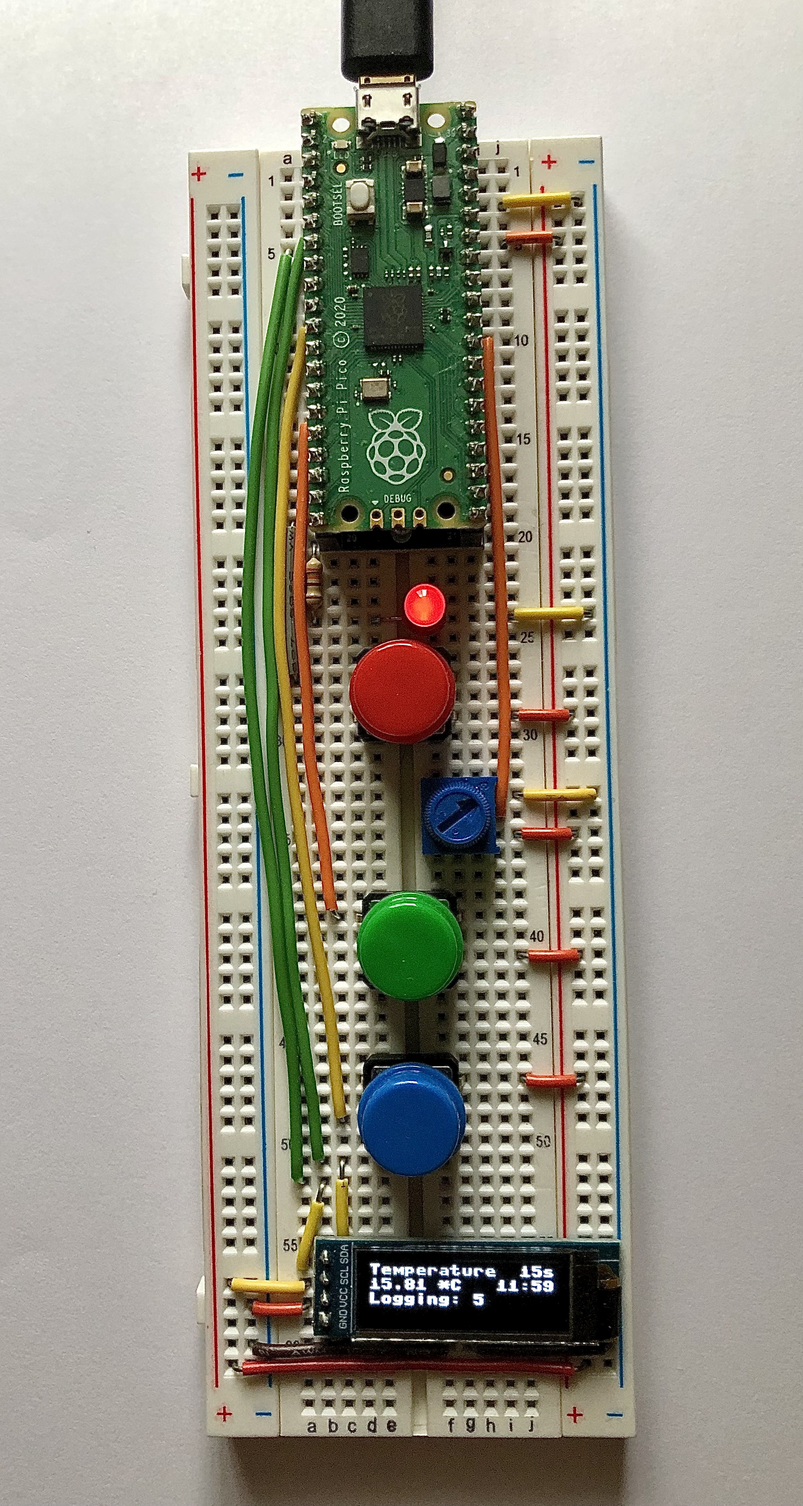
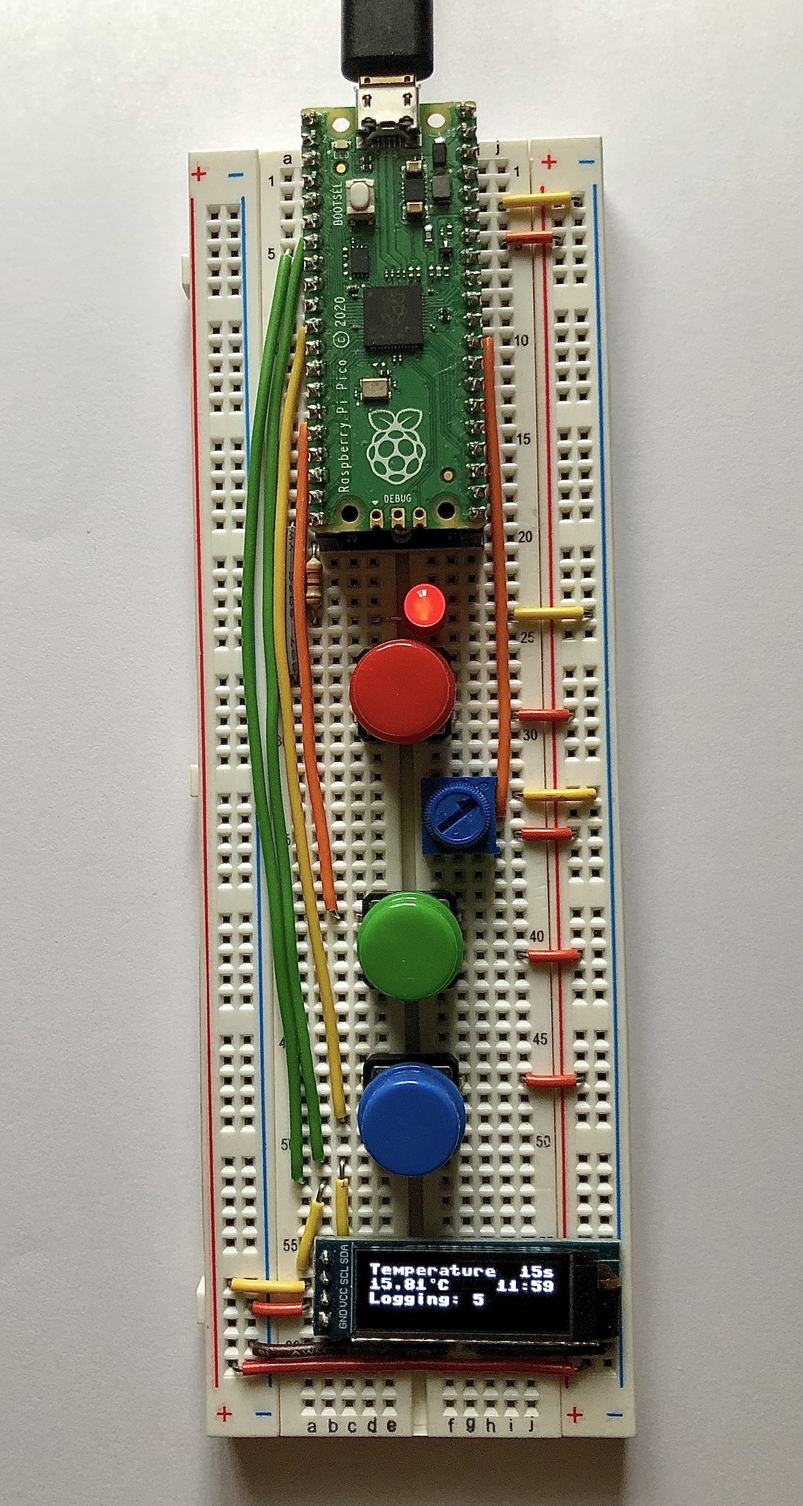
Project Updated
Replaced the asterisk symbol on the OLED with a degrees symbol.

6th August 2023

Changed region(s): [[0.4367, 0.593, 0.5614, 0.6554], [0.5302, 0.8427, 0.5926, 0.8739], [0.5302, 0.3745, 0.5614, 0.4057]]

diff --git a/TemperatureLogger.py b/TemperatureLogger.py
@@ -25,6 +25,7 @@ import time
 import utime
 import random
 import binascii
+import math
 from ssd1306 import SSD1306_I2C
 from machine import Pin, I2C, ADC
 
@@ -167,17 +168,27 @@ def centigradeToFahrenheit(centigrade):
     fahrenheit = centigrade * 9/5 + 32
     return fahrenheit
 
+def circle(cx,cy,r,c): # Centre (x,y), radius, colour
+    for angle in range(0, 90, 1): # 0 to 90 degrees in 1 step
+        y3=int(r*math.sin(math.radians(angle))) # 4 quadrants
+        x3=int(r*math.cos(math.radians(angle)))
+        OLED128X32.pixel(cx-x3,cy+y3,c)
+        OLED128X32.pixel(cx-x3,cy-y3,c)
+        OLED128X32.pixel(cx+x3,cy+y3,c)
+        OLED128X32.pixel(cx+x3,cy-y3,c)
+
 def displayInformationToOled(index):
     OLED128X32.fill(0)
     OLED128X32.text("Temperature  " + str(interval) + "s", 0, 0)
     
     if unit_type == "C":
-        OLED128X32.text(str(round(temperature,2)) + " " + chr(42) + "C", 0, 10)
+        OLED128X32.text(str(round(temperature,2)) + chr(32) + "C", 0, 10)
         print("Temperature: " + str(temperature) + "°C " + str(interval) + " seconds interval (" + datetimestring + ")")  
     else:
-        OLED128X32.text(str(round(centigradeToFahrenheit(temperature),2)) + " " + chr(42) + "F", 0, 10)
+        OLED128X32.text(str(round(centigradeToFahrenheit(temperature),2)) + chr(32) + "F", 0, 10)
         print("Temperature: " + str(centigradeToFahrenheit(temperature)) + "°F "  + str(interval) + " seconds interval (" + datetimestring + ")")
-        
+    circle(45,11,2,1)
+    
     OLED128X32.text(str(timestring), 88, 10)
 
     if logging == False:
